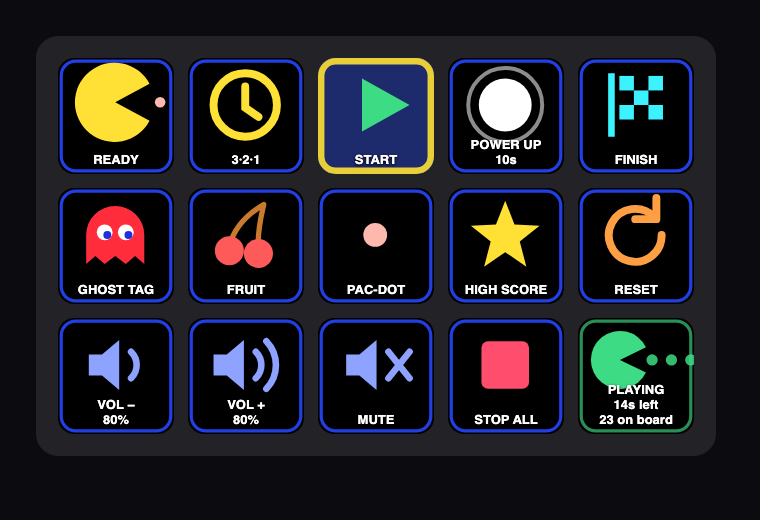
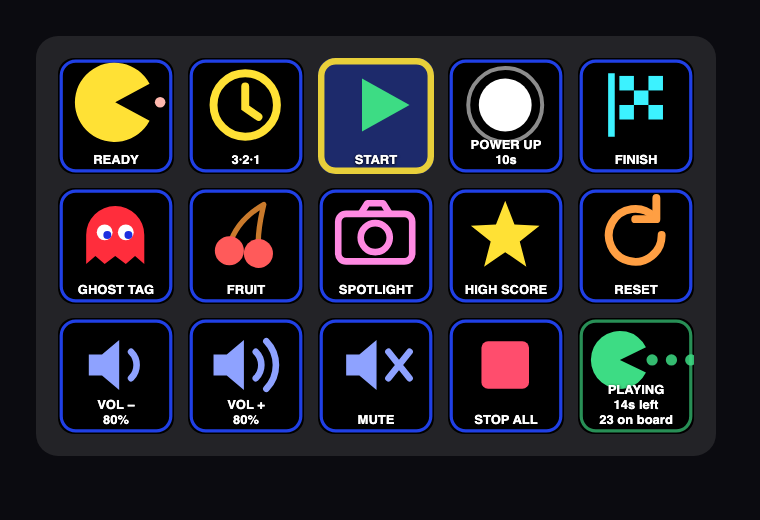
Swap PAC-DOT off the deck for a SPOTLIGHT key
PAC-DOT was the one key that did nothing the run wasn't already doing —
the waka blips on a loop the whole time anyway. Its slot now holds
SPOTLIGHT: one press puts the player who just scored on the TV and holds
their page there, which is what the kid needs to photograph where they
landed.

The board already knew how to do this; only the staff screen could ask
for it, and only by naming a player. The controller can't name anyone, so
the key always means "whoever scored last". An empty board is a no-op
rather than an error, and the key dims until somebody is on it.

PAC-DOT stays in the actions list for anyone who wants it back.

Changed region(s): [[0.4237, 0.3692, 0.5447, 0.5846]]

diff --git a/apps/leaderboard/test/api.test.ts b/apps/leaderboard/test/api.test.ts
@@ -233,6 +233,34 @@ describe('HTTP API', () => {
     assert.equal((await h.call('POST', '/api/game/nonsense')).status, 404);
   });
 
+  test('SPOTLIGHT puts the player who just finished on the TV', async () => {
+    // The controller can't name a player, so the key always means "whoever just scored".
+    const fresh = await start();
+    const empty = await fresh.call('POST', '/api/game/spotlight');
+    assert.equal(empty.status, 200, 'an empty board must not error at the operator');
+    assert.equal(empty.body.applied, false);
+    await fresh.stop();
+
+    await h.call('POST', '/api/scores', { initials: 'AAA', score: 40 });
+    await h.call('POST', '/api/scores', { initials: 'ZZZ', score: 5 });
+
+    const stream = await openStream(h.base);
+    await stream.next();
+    const res = await h.call('POST', '/api/game/spotlight');
+    assert.equal(res.body.applied, true);
+    // The newest score, not the highest: ZZZ came last and is the one holding the camera.
+    assert.equal(res.body.entry.initials, 'ZZZ');
+    assert.equal(res.body.entry.rank, 2);
+
+    const pushed = await stream.next();
+    assert.equal(pushed.reason, 'spotlight');
+    assert.equal(pushed.spotlight.entry.initials, 'ZZZ');
+    stream.close();
+
+    // It shows a player; it must not disturb a run that's under way.
+    assert.equal(res.body.status.state, 'idle');
+  });
+
   test('volume and mute commands update the saved settings', async () => {
     await h.call('PUT', '/api/settings', { soundEnabled: true, soundVolume: 50 });
     await h.call('POST', '/api/game/volume-up');

diff --git a/apps/streamdeck/src/icons.ts b/apps/streamdeck/src/icons.ts
@@ -14,6 +14,9 @@ const ART: Record<GameCommand, (color: string) => string> = {
     `<path d="M24 46c4-14 14-24 26-31M46 48c-1-13 2-24 4-33" stroke="#c97a2c" stroke-width="4" fill="none" stroke-linecap="round"/><circle cx="24" cy="50" r="11" fill="${c}"/><circle cx="46" cy="52" r="11" fill="${c}"/>`,
   'pac-dot': (c) => `<circle cx="36" cy="38" r="9" fill="${c}"/>`,
   'high-score': (c) => `<path d="M36 12l7 18 19 1-15 12 5 19-16-11-16 11 5-19-15-12 19-1z" fill="${c}"/>`,
+  // A camera: this key exists so the kid can photograph where they landed.
+  spotlight: (c) =>
+    `<rect x="8" y="22" width="56" height="36" rx="6" fill="none" stroke="${c}" stroke-width="5"/><path d="M25 22l5-8h12l5 8" fill="none" stroke="${c}" stroke-width="5" stroke-linejoin="round"/><circle cx="36" cy="40" r="11" fill="none" stroke="${c}" stroke-width="5"/>`,
   finish: (c) =>
     `<path d="M18 14v48" stroke="${c}" stroke-width="5"/><g fill="${c}"><rect x="24" y="16" width="11" height="11"/><rect x="46" y="16" width="11" height="11"/><rect x="35" y="27" width="11" height="11"/><rect x="24" y="38" width="11" height="11"/><rect x="46" y="38" width="11" height="11"/></g>`,
   'stop-all': (c) => `<rect x="18" y="20" width="36" height="36" rx="5" fill="${c}"/>`,
@@ -37,6 +40,7 @@ const COLORS: Record<GameCommand, string> = {
   fruit: '#ff5a5a',
   'pac-dot': '#ffb8ae',
   'high-score': '#ffe135',
+  spotlight: '#ff8ae2',
   finish: '#3cf2ff',
   'stop-all': '#ff4d6d',
   reset: '#ff9f43',

diff --git a/apps/streamdeck/test/plugin.test.ts b/apps/streamdeck/test/plugin.test.ts
@@ -194,6 +194,23 @@ describe('Stream Deck plugin', { concurrency: false }, () => {
     await fetch(`${leaderboardUrl}/api/game/reset`, { method: 'POST' });
   });
 
+  test('the SPOTLIGHT key shows whoever scored last, and dims when nobody has', async () => {
+    // Nothing on the board yet in this fixture's game, so the key should be pressable but dim.
+    sent.length = 0;
+    send(keyEvent('willAppear', 'SPOT-KEY', '', uuidFor('spotlight')));
+    await waitFor(() => lastTitle('SPOT-KEY') !== undefined);
+    assert.equal(lastTitle('SPOT-KEY'), 'SPOTLIGHT');
+
+    await fetch(`${leaderboardUrl}/api/scores`, {
+      method: 'POST',
+      headers: { 'content-type': 'application/json' },
+      body: JSON.stringify({ initials: 'PIC', score: 7 }),
+    });
+    sent.length = 0;
+    send(keyEvent('keyDown', 'SPOT-KEY', '', uuidFor('spotlight')));
+    await waitFor(() => sent.some((m) => m.event === 'showOk'), 4000);
+  });
+
   test('a key with no address does not disconnect the keys that have one', async () => {
     // Fifteen keys appear at start-up and only one of them carries the address;
     // the others must not reset the plugin back to its default server.

diff --git a/apps/leaderboard/src/http.ts b/apps/leaderboard/src/http.ts
@@ -196,6 +196,15 @@ export function createApp({ service, publicDir = path.join(APP_ROOT, 'public'), 
       if (!GAME_COMMANDS.includes(command)) {
         throw new HttpError(404, 'unknown_command', `Unknown game command "${command}". Try one of: ${GAME_COMMANDS.join(', ')}.`);
       }
+      // SPOTLIGHT isn't a game state at all: it puts the player who just finished on the TV.
+      // The controller has no way to name one, so it always means the newest score.
+      if (command === 'spotlight') {
+        const { latest } = service.snapshot();
+        if (!latest) return sendJson(res, 200, { command, applied: false, reason: 'Nobody is on the board yet.', status: game.status });
+        log(`* showing ${latest.initials} (${latest.rank}) on the TV`);
+        broadcast('spotlight', { spotlight: { entry: latest } });
+        return sendJson(res, 200, { command, applied: true, entry: latest, status: game.status });
+      }
       const result = game.command(command);
       // `applied: false` = the command didn't fit the current state (e.g. POWER UP before START).
       // It's not an error: a controller button should never blow up in the operator's face.

diff --git a/apps/streamdeck/test/profile.test.ts b/apps/streamdeck/test/profile.test.ts
@@ -51,8 +51,16 @@ describe('deck profile', { skip: hasDeck ? false : 'no Stream Deck app on this m
       assert.ok(declared.has(entry.UUID), `${entry.UUID} is not an action this plugin declares`);
     }
 
-    // Every command a runner needs during a session is on the deck, not just some of them.
+    // Every command a runner needs during a session is on the deck. PAC-DOT is deliberately
+    // left off: the waka already blips on a loop all through a run, so the key added nothing.
+    const OFF_THE_DECK = new Set(['pac-dot']);
     const placed = new Set(Object.values(actions).map((a) => a.UUID.replace('com.pacmanmaze.controller.', '')));
-    for (const command of GAME_COMMANDS) assert.ok(placed.has(command), `${COMMAND_LABELS[command]} is missing from the layout`);
+    for (const command of GAME_COMMANDS) {
+      if (OFF_THE_DECK.has(command)) {
+        assert.ok(!placed.has(command), `${COMMAND_LABELS[command]} is meant to be off the deck`);
+        continue;
+      }
+      assert.ok(placed.has(command), `${COMMAND_LABELS[command]} is missing from the layout`);
+    }
   });
 });

diff --git a/packages/shared/game-events.ts b/packages/shared/game-events.ts
@@ -13,6 +13,7 @@ export const GAME_COMMANDS = [
   'fruit',
   'pac-dot',
   'high-score',
+  'spotlight',
   'finish',
   'stop-all',
   'reset',
@@ -149,6 +150,7 @@ export const COMMAND_LABELS: Record<GameCommand, string> = {
   fruit: 'FRUIT',
   'pac-dot': 'PAC-DOT',
   'high-score': 'HIGH SCORE',
+  spotlight: 'SPOTLIGHT',
   finish: 'FINISH',
   'stop-all': 'STOP ALL',
   reset: 'RESET',
@@ -167,6 +169,7 @@ export const COMMAND_DESCRIPTIONS: Record<GameCommand, string> = {
   fruit: 'Bonus fruit sound.',
   'pac-dot': 'A single pac-dot blip.',
   'high-score': 'Play the high-score fanfare.',
+  spotlight: 'Put the player who just finished on the TV, and hold their page for a photo.',
   finish: 'End the run now and play the finish sound.',
   'stop-all': 'Silence everything, leave the state alone.',
   reset: 'Back to the idle board, ready for the next group.',

diff --git a/apps/streamdeck/src/actions.ts b/apps/streamdeck/src/actions.ts
@@ -174,7 +174,8 @@ async function paint(id: string): Promise<void> {
   } else {
     image = keyImage({
       command,
-      dimmed: Boolean(AVAILABLE_IN[command] && !AVAILABLE_IN[command]!.includes(state)),
+      // SPOTLIGHT has nobody to show until a score has been entered.
+      dimmed: command === 'spotlight' ? gameClient.players === 0 : Boolean(AVAILABLE_IN[command] && !AVAILABLE_IN[command]!.includes(state)),
       active: Boolean(ACTIVE_IN[command]?.includes(state)),
       offline,
     });

diff --git a/apps/streamdeck/src/client.ts b/apps/streamdeck/src/client.ts
@@ -60,8 +60,8 @@ export class GameClient {
         streamDeck.logger.warn(`Command ${command} failed: HTTP ${res.status}`);
         return false;
       }
-      const body = (await res.json()) as { status: GameStatus };
-      this.#status = body.status;
+      const body = (await res.json()) as { status?: GameStatus };
+      if (body.status) this.#status = body.status;
       this.#emit();
       return true;
     } catch (err) {

diff --git a/apps/streamdeck/com.pacmanmaze.controller.sdPlugin/ui/game-key.html b/apps/streamdeck/com.pacmanmaze.controller.sdPlugin/ui/game-key.html
@@ -46,6 +46,7 @@
       ['fruit', 'FRUIT — bonus sound'],
       ['pac-dot', 'PAC-DOT — single dot blip'],
       ['high-score', 'HIGH SCORE — play the fanfare'],
+      ['spotlight', 'SPOTLIGHT — put the last player on the TV for a photo'],
       ['finish', 'FINISH — end the run'],
       ['stop-all', 'STOP ALL — silence everything'],
       ['reset', 'RESET — back to the idle board'],

diff --git a/apps/streamdeck/README.md b/apps/streamdeck/README.md
@@ -17,6 +17,7 @@ drag the one you want onto the deck — there is nothing to configure, each key 
 | **START** | Starts the run, run clock and gameplay music |
 | **POWER UP** | Power-mode music and blue ghosts for 10 seconds, then back to normal play automatically |
 | **GHOST TAG / FRUIT / PAC-DOT** | One-shot sounds during a run |
+| **SPOTLIGHT** | Puts the player who just scored on the TV and holds their page there, for the photo |
 | **HIGH SCORE** | Plays the high-score fanfare on demand |
 | **FINISH** | Ends the run: music stops, `FINISH!` on the TV |
 | **STOP ALL** | Silences everything without changing the state |
@@ -42,10 +43,13 @@ npm run streamdeck:profile   # optional: a ready-made 15-key layout
 Mac. Double-click it and confirm the import to get every key placed at once:
 
 ```
-READY   3·2·1   START    POWER UP    FINISH
-GHOST   FRUIT   PAC-DOT  HIGH SCORE  RESET
-VOL −   VOL +   MUTE     STOP ALL    STATUS
+READY   3·2·1   START      POWER UP    FINISH
+GHOST   FRUIT   SPOTLIGHT  HIGH SCORE  RESET
+VOL −   VOL +   MUTE       STOP ALL    STATUS
 ```
+
+PAC-DOT is left off the layout on purpose — the waka already blips on a loop all through a run, so
+the key added nothing. It's still in the actions list if you want it somewhere.
 
 Prefer to arrange it yourself? Skip the profile and drag the keys over one at a time.
 

diff --git a/README.md b/README.md
@@ -262,6 +262,7 @@ press three buttons in the right order.
 | `power-up` | Power mode, and adds time to the run (see Run timer below) |
 | `ghost-tag`, `fruit`, `pac-dot` | One-shot sounds during a run |
 | `high-score` | Plays the high-score fanfare on demand |
+| `spotlight` | Puts the player who just scored on the TV and holds their page for a photo |
 | `finish` | Ends the run: music stops, `FINISH!` on the TV |
 | `stop-all` | Silences everything without changing the state |
 | `reset` | Back to the idle leaderboard |
